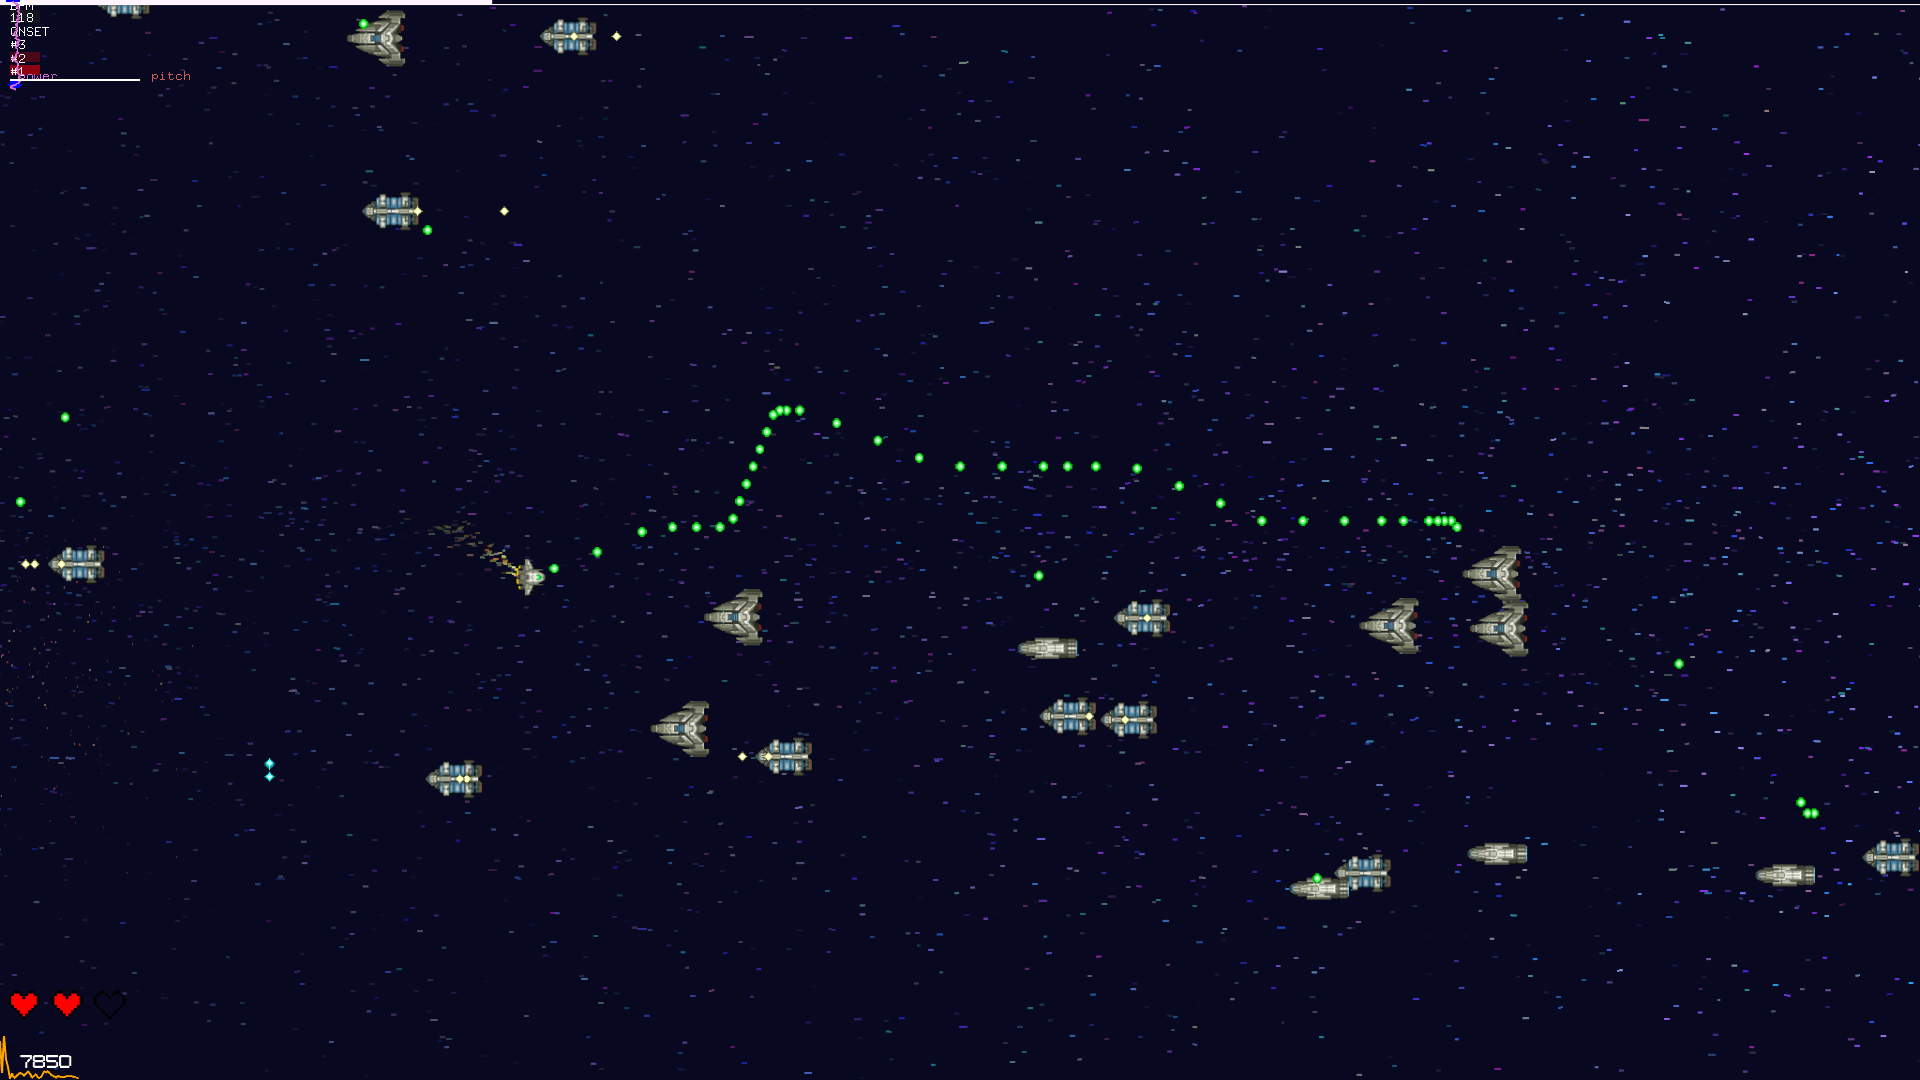
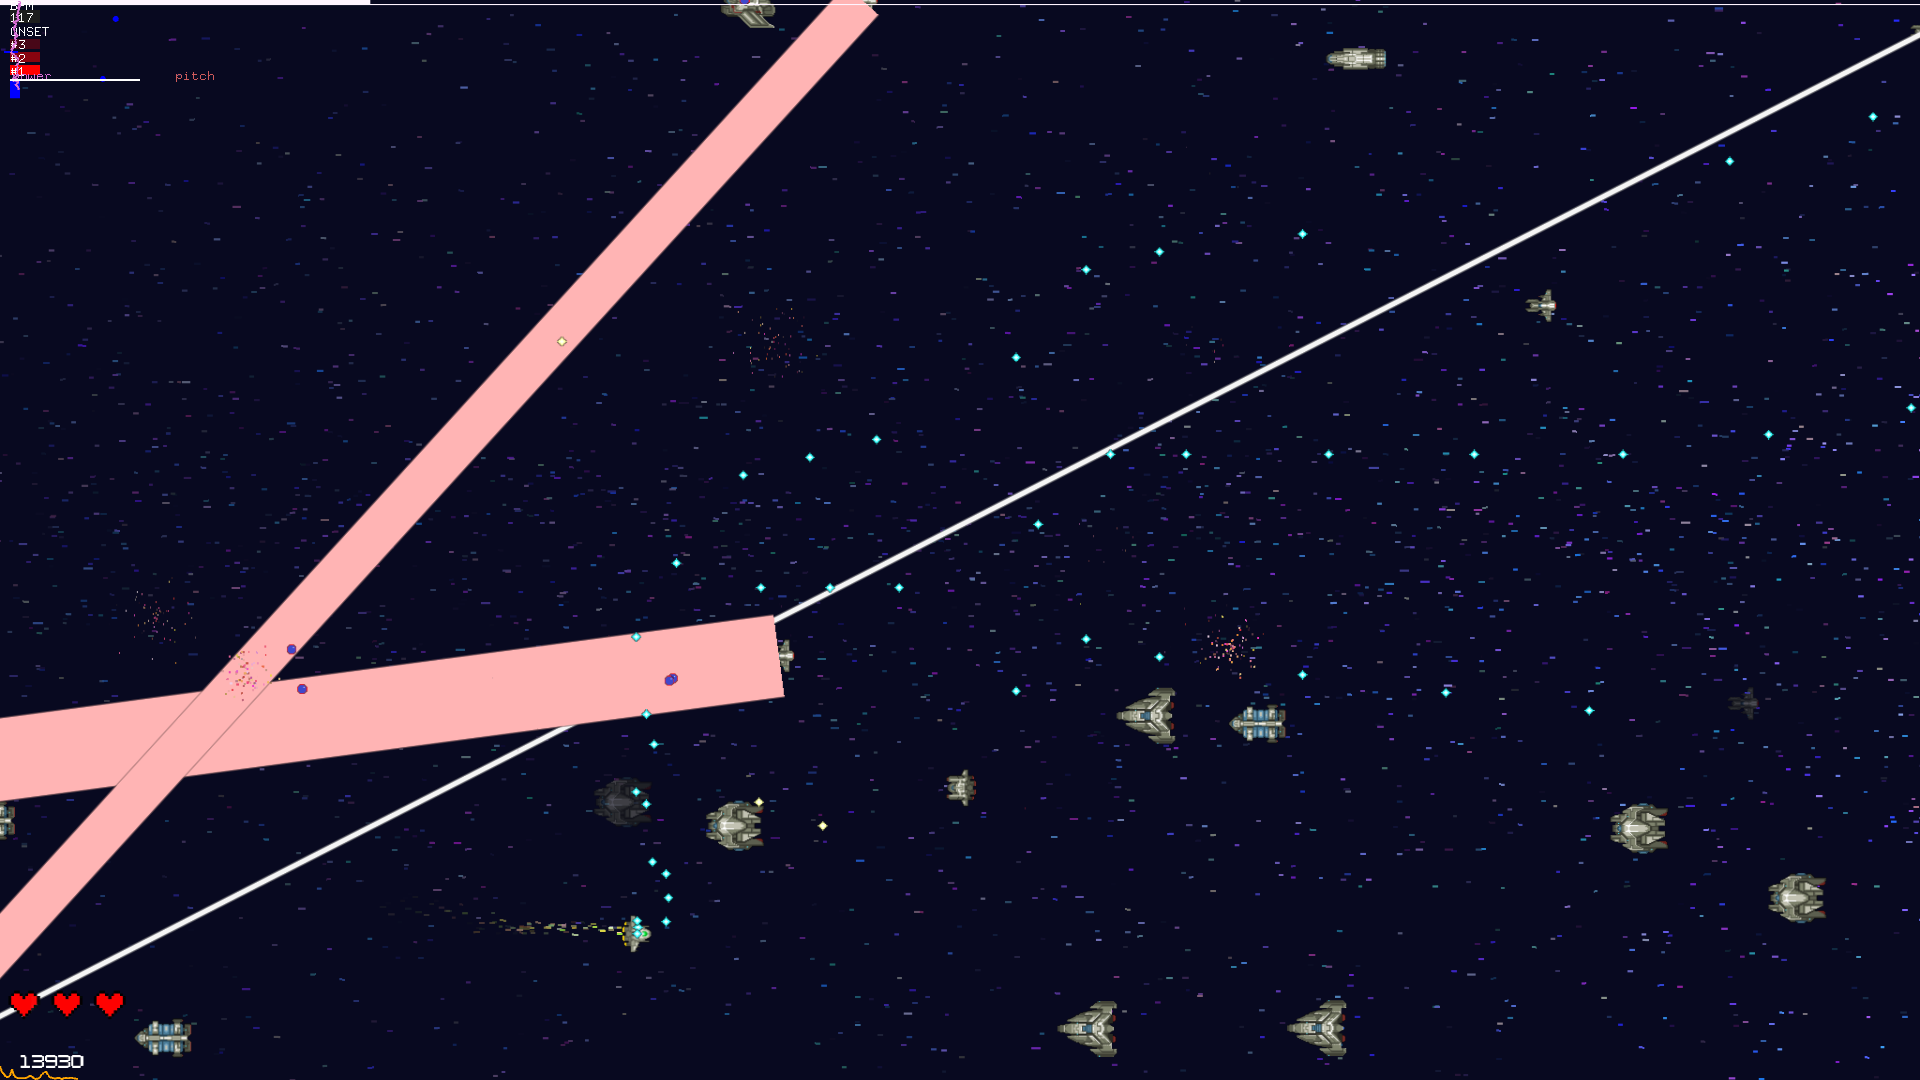
Updated bullets

diff --git a/web/index.html b/web/index.html
@@ -155,7 +155,7 @@ License URL: http://creativecommons.org/licenses/by/3.0/
 											<div class="img-top part-one">
 												<div class="portfolio-wrapper">		
 													<a href="images/pic6.jpg" class="b-link-stripe b-animate-go  swipebox">
-														<img src="images/pic1.jpg" />
+														<img src="images/pic6.jpg" />
 															<div class="b-wrapper">
 																<h2 class="b-animate b-from-left    b-delay03 "> </h2>
 															</div>
@@ -166,7 +166,7 @@ License URL: http://creativecommons.org/licenses/by/3.0/
                                             <div class="img-top part-two">
 												<div class="portfolio-wrapper">		
 													<a href="images/pic7.jpg" class="b-link-stripe b-animate-go  swipebox">
-														<img src="images/pic1.jpg" />
+														<img src="images/pic7.jpg" />
 															<div class="b-wrapper">
 																<h2 class="b-animate b-from-left    b-delay03 "> </h2>
 															</div>
@@ -182,7 +182,7 @@ License URL: http://creativecommons.org/licenses/by/3.0/
 											<div class="img-top part-one">
 												<div class="portfolio-wrapper">		
 													<a href="images/pic8.jpg" class="b-link-stripe b-animate-go  swipebox">
-														<img src="images/pic3.jpg" />
+														<img src="images/pic8.jpg" />
 															<div class="b-wrapper">
 																<h2 class="b-animate b-from-left    b-delay03 "> </h2>
 															</div>
@@ -192,7 +192,7 @@ License URL: http://creativecommons.org/licenses/by/3.0/
 											<div class="img-top part-two">
 												<div class="portfolio-wrapper">		
 													<a href="images/pic9.jpg" class="b-link-stripe b-animate-go  swipebox">
-														<img src="images/pic5.jpg" />
+														<img src="images/pic9.jpg" />
 															<div class="b-wrapper">
 																<h2 class="b-animate b-from-left    b-delay03 "> </h2>
 															</div>
@@ -207,7 +207,7 @@ License URL: http://creativecommons.org/licenses/by/3.0/
 											<div class="img-top part-end">
 												<div class="portfolio-wrapper">		
 													<a href="images/pic10.jpg" class="b-link-stripe b-animate-go  swipebox">
-														<img src="images/pic4.jpg" />
+														<img src="images/pic10.jpg" />
 															<div class="b-wrapper">
 																<h2 class="b-animate b-from-left    b-delay03 "> </h2>
 															</div>
@@ -275,7 +275,7 @@ License URL: http://creativecommons.org/licenses/by/3.0/
 		<h3>Design</h3>
 		<div class="blog-news">
 			<div class="container">
-                <p>Hello</p>
+                <p>The overaching game design is based around three states that will transition and load as the player moves through the game: Title, Game, End.</p>
             </div>
 		</div>
 	</div>

diff --git a/src/BulletType.cpp b/src/BulletType.cpp
@@ -36,16 +36,16 @@ BulletLibrary::BulletLibrary(){
     });
 
     playerBullets.push_back( BulletType { 1.0, 1,
-        &ofxAssets::image("b1"), STRAIGHT, DOWNLANE
+        &ofxAssets::image("b5"), STRAIGHT, DOWNLANE
     });
     playerBullets.push_back( BulletType { 2.0, 2,
-        &ofxAssets::image("b2"), TWOSHOT, DOWNLANE
+        &ofxAssets::image("b5"), TWOSHOT, DOWNLANE
     });
     playerBullets.push_back( BulletType { 3.0, 3,
-        &ofxAssets::image("b3"), THREESHOT, DOWNLANE
+        &ofxAssets::image("b5"), THREESHOT, DOWNLANE
     });
     playerBullets.push_back( BulletType { 5.0, 5,
-        &ofxAssets::image("b4"), CLOUD, DOWNLANE
+        &ofxAssets::image("b5"), CLOUD, DOWNLANE
     });
 };
 
